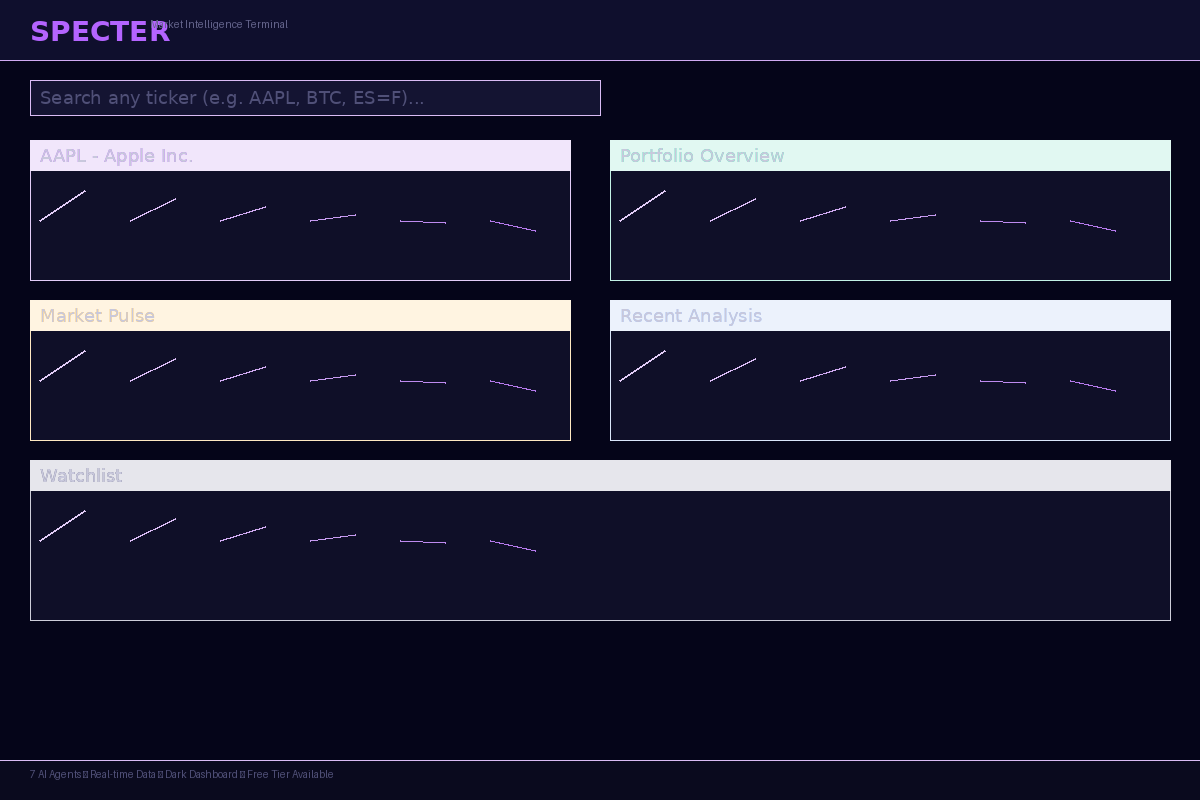
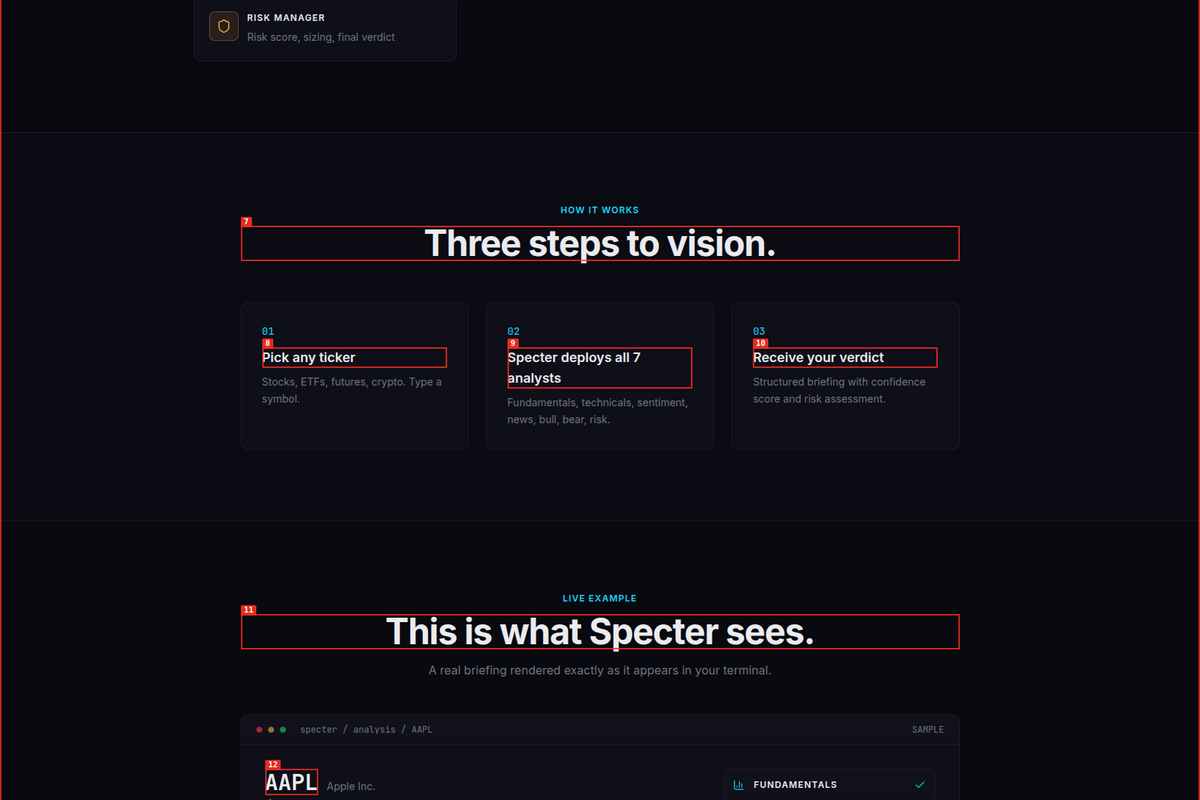
Restore source with HashRouter fix + relative base path for GitHub Pages

diff --git a/index.html b/index.html
@@ -2,12 +2,12 @@
 <html lang="en">
   <head>
     <meta charset="UTF-8" />
-    <link rel="icon" type="image/svg+xml" href="/favicon.svg" />
+    <link rel="icon" type="image/svg+xml" href="./favicon.svg" />
     <meta name="viewport" content="width=device-width, initial-scale=1.0" />
     <link rel="manifest" href="/manifest.json" />
     <title>Specter — Market Intelligence Terminal</title>
-    <script type="module" crossorigin src="/assets/index-yIfSriXV.js"></script>
-    <link rel="stylesheet" crossorigin href="/assets/index-BmP5C2qz.css">
+    <script type="module" crossorigin src="./assets/index-yIfSriXV.js"></script>
+    <link rel="stylesheet" crossorigin href="./assets/index-BmP5C2qz.css">
   </head>
   <body>
     <div id="root"></div>